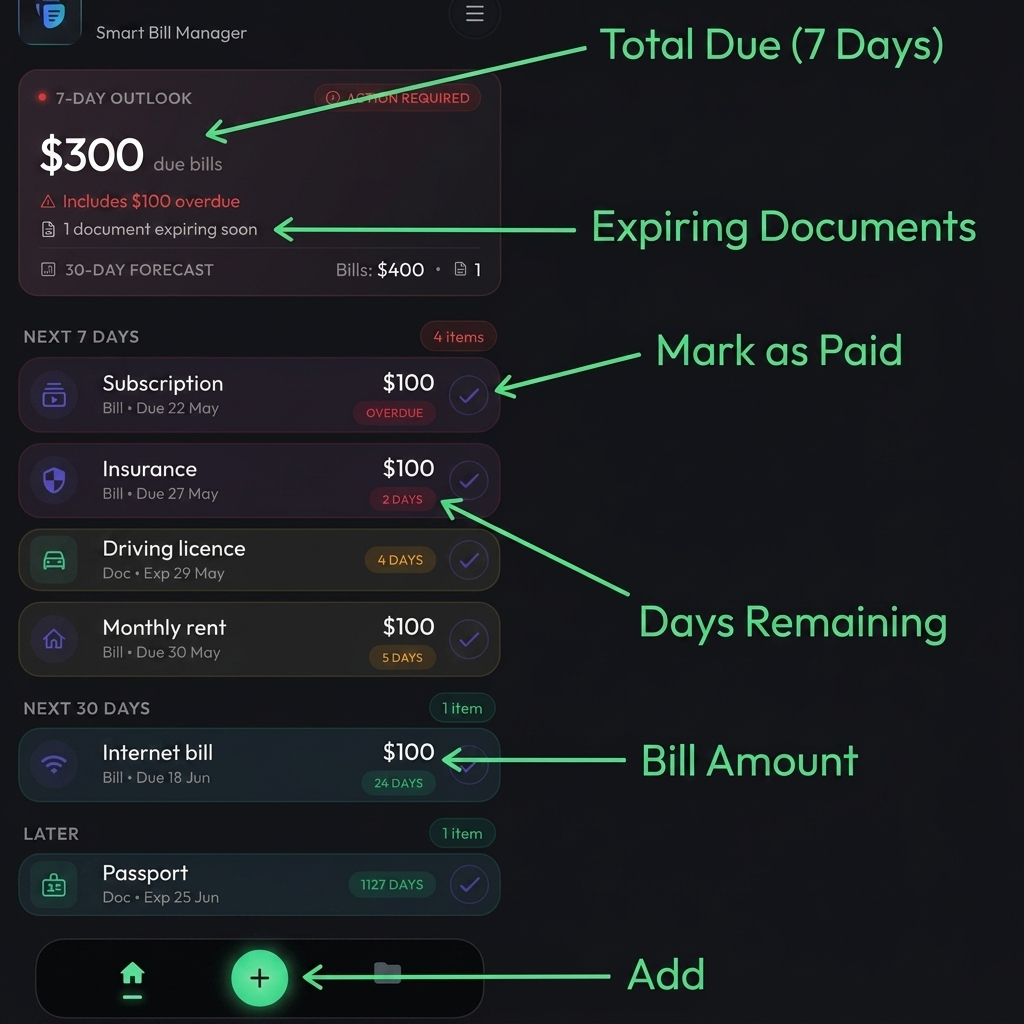
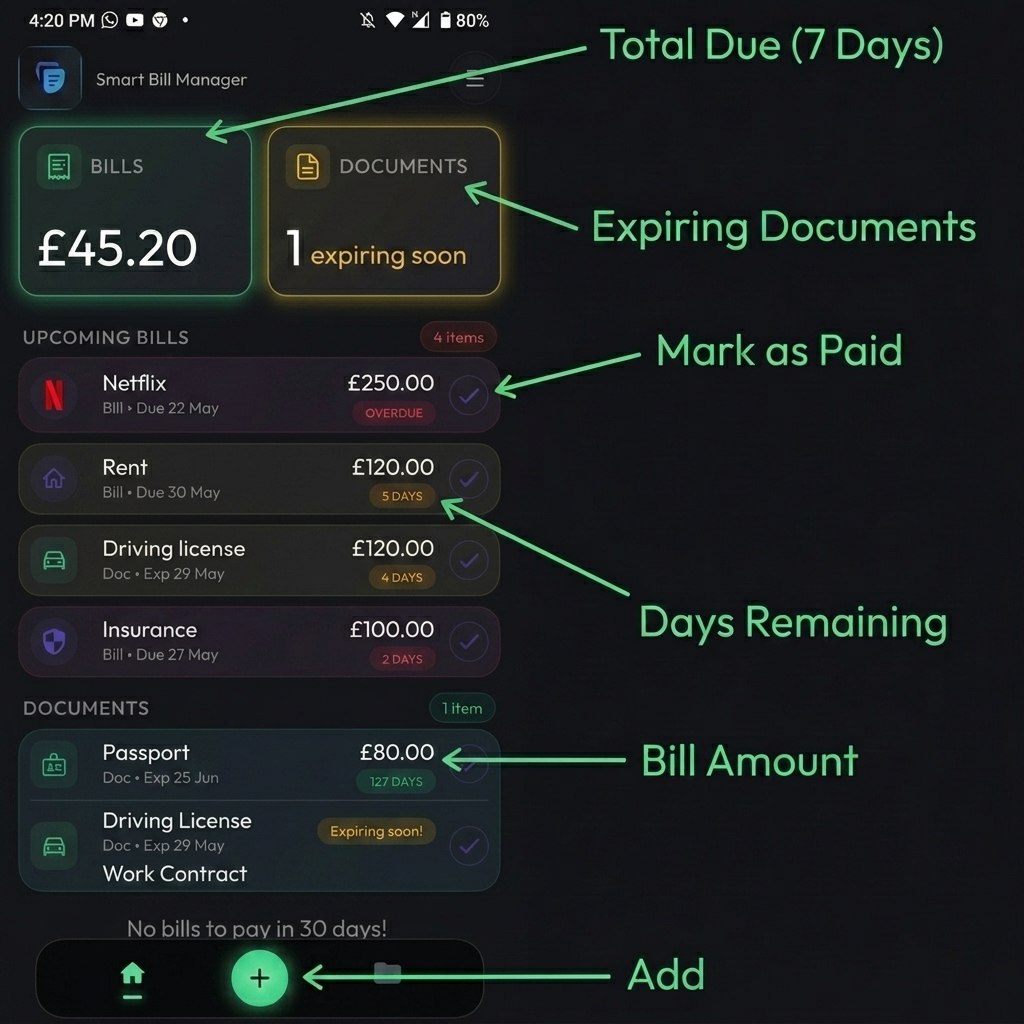
refactor: revert live onboarding mockup and use updated PNG containing new split bento card layout

diff --git a/lib/screens/onboarding/onboarding_tutorial_page.dart b/lib/screens/onboarding/onboarding_tutorial_page.dart
@@ -1,35 +1,7 @@
 import 'package:flutter/material.dart';
-import 'package:flutter_riverpod/flutter_riverpod.dart';
 import '../../widgets/global_components.dart';
-import '../../providers/vault_provider.dart';
-import '../../models/vault_item.dart';
-import '../../screens/home/financial_bento_card.dart';
-import '../../theme/app_theme.dart';
-import 'onboarding_header.dart';
 
-class MockOnboardingVaultNotifier extends VaultNotifier {
-  @override
-  List<VaultItem> build() {
-    final now = DateTime.now();
-    final today = DateTime(now.year, now.month, now.day);
-    
-    return [
-      VaultItem()
-        ..itemType = 'Bill'
-        ..isPaid = false
-        ..dueDate = today.add(const Duration(days: 5))
-        ..amount = 45.20
-        ..category = 'Utilities'
-        ..title = 'Electricity Bill',
-      VaultItem()
-        ..itemType = 'Document'
-        ..isPaid = false
-        ..dueDate = today.add(const Duration(days: 4))
-        ..category = 'Personal'
-        ..title = 'Driver License',
-    ];
-  }
-}
+import 'onboarding_header.dart';
 
 class OnboardingTutorialPage extends StatelessWidget {
   final VoidCallback onContinue;
@@ -41,8 +13,6 @@ class OnboardingTutorialPage extends StatelessWidget {
 
   @override
   Widget build(BuildContext context) {
-    final isDark = Theme.of(context).brightness == Brightness.dark;
-    
     return SingleChildScrollView(
       physics: const BouncingScrollPhysics(),
       child: Padding(
@@ -50,82 +20,15 @@ class OnboardingTutorialPage extends StatelessWidget {
         child: Column(
           children: [
             const OnboardingHeader(),
-            const SizedBox(height: 12),
-            
-            // Live Interactive Dashboard Mockup
-            ProviderScope(
-              overrides: [
-                vaultProvider.overrideWith(() => MockOnboardingVaultNotifier()),
-              ],
-              child: Container(
-                height: 380,
-                decoration: BoxDecoration(
-                  color: Theme.of(context).scaffoldBackgroundColor,
-                  borderRadius: BorderRadius.circular(24),
-                  border: Border.all(
-                    color: (isDark ? Colors.white : Colors.black).withValues(alpha: 0.08),
-                    width: 1.5,
-                  ),
-                  boxShadow: [
-                    BoxShadow(
-                      color: Colors.black.withValues(alpha: 0.06),
-                      blurRadius: 15,
-                      offset: const Offset(0, 5),
-                    ),
-                  ],
-                ),
-                child: ClipRRect(
-                  borderRadius: BorderRadius.circular(24),
-                  child: Column(
-                    crossAxisAlignment: CrossAxisAlignment.start,
-                    children: [
-                      _buildMockHeader(context),
-                      const FinancialBentoCard(),
-                      const SizedBox(height: 12),
-                      Padding(
-                        padding: const EdgeInsets.symmetric(horizontal: 16.0),
-                        child: Text(
-                          'UPCOMING ITEMS',
-                          style: AppTheme.labelCapsStyle(context).copyWith(
-                            fontSize: 11,
-                            letterSpacing: 0.8,
-                          ),
-                        ),
-                      ),
-                      const SizedBox(height: 6),
-                      Expanded(
-                        child: ListView(
-                          padding: const EdgeInsets.symmetric(horizontal: 6),
-                          physics: const NeverScrollableScrollPhysics(),
-                          children: [
-                            _buildMockListItem(
-                              context,
-                              title: 'Electricity Bill',
-                              category: 'Utilities',
-                              daysLeft: 'Due in 5 days',
-                              amount: '£45.20',
-                              icon: Icons.power_rounded,
-                              iconColor: Colors.amber,
-                            ),
-                            _buildMockListItem(
-                              context,
-                              title: 'Driver License',
-                              category: 'Personal',
-                              daysLeft: 'Expiring in 4 days',
-                              amount: null,
-                              icon: Icons.badge_rounded,
-                              iconColor: Colors.blue,
-                            ),
-                          ],
-                        ),
-                      ),
-                    ],
-                  ),
-                ),
-              ),
+            const SizedBox(height: 8),
+            // Large Full-Width Image
+            Image.asset(
+              'assets/images/dashboard_tutorial.png',
+              height: 520,
+              width: double.infinity,
+              fit: BoxFit.contain,
             ),
-            
-            const SizedBox(height: 20),
+            const SizedBox(height: 12),
             PrimaryButton(
               label: 'Continue',
               icon: Icons.arrow_forward,
@@ -133,151 +36,6 @@ class OnboardingTutorialPage extends StatelessWidget {
             ),
           ],
         ),
-      ),
-    );
-  }
-
-  Widget _buildMockHeader(BuildContext context) {
-    final isDark = Theme.of(context).brightness == Brightness.dark;
-    return Padding(
-      padding: const EdgeInsets.fromLTRB(12, 12, 12, 12),
-      child: Row(
-        mainAxisAlignment: MainAxisAlignment.spaceBetween,
-        children: [
-          Row(
-            children: [
-              const DueVaultLogo(
-                size: 40, // scaled down to prevent overflows
-                showGlow: false,
-              ),
-              const SizedBox(width: 8),
-              Column(
-                crossAxisAlignment: CrossAxisAlignment.start,
-                mainAxisSize: MainAxisSize.min,
-                children: [
-                  Text(
-                    'DueVault',
-                    style: TextStyle(
-                      fontWeight: FontWeight.bold,
-                      color: isDark ? Colors.white : const Color(0xFF0F172A),
-                      fontSize: 19,
-                      letterSpacing: -0.5,
-                    ),
-                  ),
-                  Text(
-                    'Smart Bill Manager',
-                    style: TextStyle(
-                      color: isDark ? Colors.grey.shade400 : Colors.grey.shade600,
-                      fontSize: 11,
-                    ),
-                  ),
-                ],
-              ),
-            ],
-          ),
-          // Profile Avatar Mockup
-          Row(
-            mainAxisSize: MainAxisSize.min,
-            children: [
-              Text(
-                'Guest',
-                style: TextStyle(
-                  color: isDark ? Colors.grey.shade400 : Colors.grey.shade600,
-                  fontSize: 11,
-                  fontWeight: FontWeight.w500,
-                ),
-              ),
-              const SizedBox(width: 6),
-              Container(
-                padding: const EdgeInsets.all(1.5),
-                decoration: BoxDecoration(
-                  shape: BoxShape.circle,
-                  border: Border.all(
-                    color: isDark ? const Color(0xFF2D333D) : const Color(0xFFE2E8F0),
-                    width: 1.5,
-                  ),
-                ),
-                child: CircleAvatar(
-                  radius: 12, // scaled down
-                  backgroundColor: isDark ? const Color(0xFF1B1F26) : const Color(0xFFF1F5F9),
-                  child: Icon(
-                    Icons.person_outline,
-                    size: 14,
-                    color: isDark ? Colors.grey.shade400 : Colors.grey.shade600,
-                  ),
-                ),
-              ),
-            ],
-          ),
-        ],
-      ),
-    );
-  }
-
-  Widget _buildMockListItem(
-    BuildContext context, {
-    required String title,
-    required String category,
-    required String daysLeft,
-    required String? amount,
-    required IconData icon,
-    required Color iconColor,
-  }) {
-    final isDark = Theme.of(context).brightness == Brightness.dark;
-    return Container(
-      margin: const EdgeInsets.symmetric(vertical: 4, horizontal: 8),
-      padding: const EdgeInsets.symmetric(horizontal: 12, vertical: 10),
-      decoration: BoxDecoration(
-        color: isDark ? const Color(0xFF1B1F26) : Colors.white,
-        borderRadius: BorderRadius.circular(12),
-        border: Border.all(
-          color: isDark ? const Color(0xFF2D333D) : const Color(0xFFE2E8F0),
-          width: 1,
-        ),
-      ),
-      child: Row(
-        children: [
-          Container(
-            padding: const EdgeInsets.all(8),
-            decoration: BoxDecoration(
-              color: iconColor.withValues(alpha: 0.1),
-              shape: BoxShape.circle,
-            ),
-            child: Icon(icon, color: iconColor, size: 20),
-          ),
-          const SizedBox(width: 12),
-          Expanded(
-            child: Column(
-              crossAxisAlignment: CrossAxisAlignment.start,
-              children: [
-                Text(
-                  title,
-                  style: TextStyle(
-                    color: isDark ? Colors.white : const Color(0xFF0F172A),
-                    fontSize: 14,
-                    fontWeight: FontWeight.w600,
-                  ),
-                ),
-                Text(
-                  '$category • $daysLeft',
-                  style: TextStyle(
-                    color: isDark ? Colors.grey.shade400 : Colors.grey.shade500,
-                    fontSize: 12,
-                  ),
-                ),
-              ],
-            ),
-          ),
-          if (amount != null)
-            Text(
-              amount,
-              style: TextStyle(
-                color: isDark ? Colors.white : const Color(0xFF0F172A),
-                fontSize: 14,
-                fontWeight: FontWeight.bold,
-              ),
-            ),
-        ],
       ),
     );
   }
